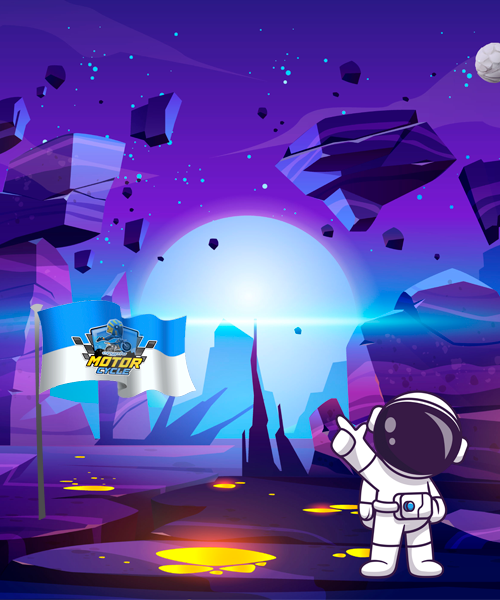
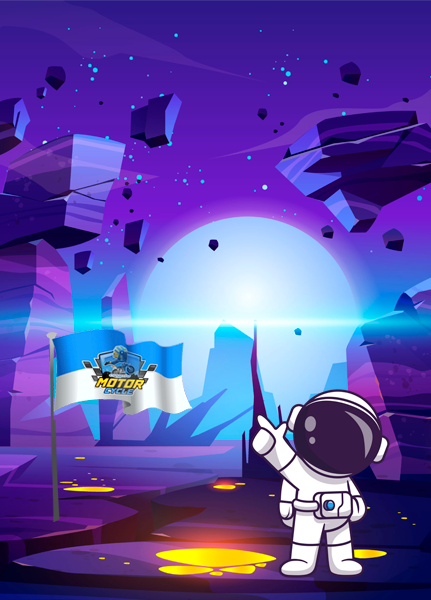
feat: responsividade mobile

diff --git a/assets/css/main.css b/assets/css/main.css
@@ -295,7 +295,91 @@ body,
     }
     .banner-header {
         object-fit: cover;
-        width: 100vw;
         height: 600px;
+    }
+    .video-frame>img {
+        width: 80%;
+        z-index: 2;
+        display: block;
+        margin: auto;
+    }
+    .frame {
+        top: 0;
+        position: absolute;
+        width: 80%;
+        height: 100%;
+    }
+    .gameplay-content {
+        padding-top: 5rem;
+    }
+    .gameplay-title>img {
+        height: 100%;
+    }
+    .gameplay-cards>img {
+        width: 33.3%;
+    }
+    .nfts-content {
+        padding-top: 5rem;
+    }
+    .nfts-cards {
+        flex-wrap: wrap;
+        flex-basis: 100%;
+    }
+    .nfts-cards>img {
+        width: 50%;
+    }
+    .nft-footer>img {
+        width: 80%;
+    }
+    .planets-content {
+        padding-top: 5rem;
+    }
+    .planet-footer>img {
+        width: 90%;
+    }
+    .planets-cards>img {
+        width: 50%;
+    }
+    .planets-cards {
+        flex-wrap: wrap;
+        flex-basis: 100%;
+    }
+    .team-content {
+        padding-top: 8rem;
+    }
+    .team-title>img {
+        width: 80%;
+    }
+    .team-content>img {
+        width: 30%;
+    }
+    .team-persons>img {
+        width: 80%;
+    }
+    .astronauts {
+        left: 30px;
+        width: 20%!important;
+        top: 40px!important;
+    }
+    .footer-content {
+        height: 100%;
+    }
+    .footer-content>img {
+        width: 30%;
+    }
+    .investor>.investor-title {
+        width: 40%;
+    }
+    .investor>.cmc-investor {
+        width: 60%;
+    }
+    .partners>.partners-title {
+        width: 40%;
+    }
+    .partners>.partners-persons {
+        width: 95%;
+    }
+    .copyright>img {
+        width: 95%;
     }
 }

diff --git a/index.html b/index.html
@@ -27,7 +27,7 @@
                 <img class="title" src="assets/img/main_content/video_apresentation/title.png">
             </div>
             <div class="video-frame">
-                <img class="screen-video" src="assets/img/main_content/video_apresentation/screen.png">
+                <img class="screen-video" src="assets/img/main_content/video_apresentation/screen_mobile.png">
                 <iframe class="frame" src="https://www.youtube.com/embed/n3bARDiJvSg"></iframe>
             </div>
         </div>
